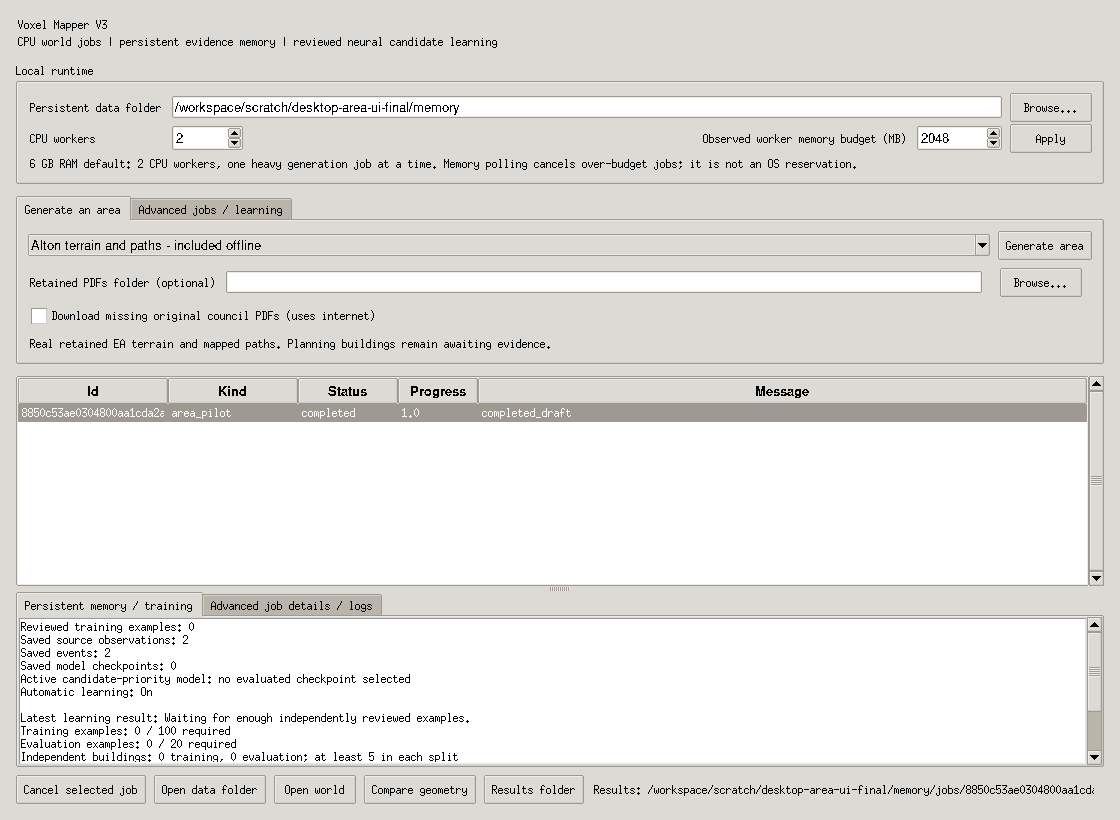
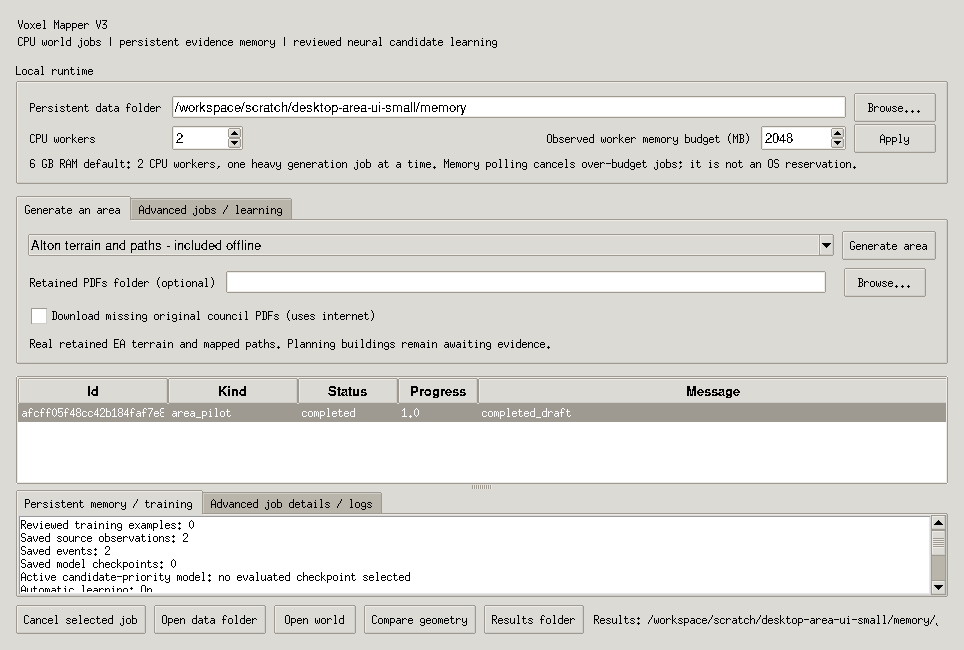
Keep primary desktop controls visible on small Windows screens

diff --git a/voxel_mapper/desktop_app.py b/voxel_mapper/desktop_app.py
@@ -30,6 +30,19 @@ def default_data_directory():
     return root/'VoxelMapperV3'
 
 
+def initial_window_geometry(root):
+    left=top=0;width=root.winfo_screenwidth();height=root.winfo_screenheight()
+    if os.name=='nt':
+        try:
+            import ctypes
+            from ctypes.wintypes import RECT
+            work=RECT()
+            if ctypes.windll.user32.SystemParametersInfoW(48,0,ctypes.byref(work),0):
+                left,top=work.left,work.top;width=work.right-work.left;height=work.bottom-work.top
+        except (AttributeError,OSError):pass
+    return f'{min(1120,max(900,width-60))}x{min(820,max(560,height-90))}{left+20:+d}{top+20:+d}'
+
+
 def learning_summary(snapshot):
     """Human-readable memory and evaluation state; hashes stay in job details."""
     memory=snapshot.get('memory',{});training=snapshot.get('training',{});config=snapshot.get('config',{})
@@ -198,7 +211,7 @@ class DesktopWindow:
         font_family='Segoe UI' if os.name=='nt' else 'DejaVu Sans'
         style.configure('.',font=(font_family,10))
         root.title('Voxel Mapper V3 - CPU desktop')
-        root.geometry(f'{min(1120,max(900,root.winfo_screenwidth()-60))}x{min(820,max(650,root.winfo_screenheight()-90))}');root.minsize(900,650)
+        root.geometry(initial_window_geometry(root));root.minsize(900,560)
         self.data_directory=tk.StringVar(value=str(Path(data_directory).expanduser().resolve()))
         self.workers=tk.IntVar(value=workers);self.memory_budget=tk.IntVar(value=memory_budget_mb)
         self.kind=tk.StringVar(value=JOB_KINDS[0][0]);self.config_path=tk.StringVar();self.automatic_learning=tk.BooleanVar(value=True)
@@ -252,12 +265,13 @@ class DesktopWindow:
         scroll=ttk.Scrollbar(top,orient='vertical',command=self.jobs.yview);self.jobs.configure(yscrollcommand=scroll.set)
         self.jobs.pack(side='left',fill='both',expand=True);scroll.pack(side='right',fill='y')
         self.jobs.bind('<<TreeviewSelect>>',lambda event:self._show_details())
-        actions=ttk.Frame(outer);actions.pack(fill='x',pady=(8,0))
-        ttk.Button(actions,text='Cancel selected job',command=self._cancel).pack(side='left')
+        actions=ttk.Frame(outer);actions.pack(side='bottom',before=panes,fill='x',pady=(8,0))
+        cancel_button=ttk.Button(actions,text='Cancel selected job',command=self._cancel);cancel_button.pack(side='left')
         ttk.Button(actions,text='Open data folder',command=self._open_directory).pack(side='left',padx=8)
-        ttk.Button(actions,text='Open world',command=lambda:self._open_job_output('park.mcworld')).pack(side='left')
-        ttk.Button(actions,text='Compare geometry',command=lambda:self._open_job_output('placement-comparison.svg')).pack(side='left',padx=8)
-        ttk.Button(actions,text='Results folder',command=self._open_job_folder).pack(side='left')
+        world_button=ttk.Button(actions,text='Open world',command=lambda:self._open_job_output('park.mcworld'));world_button.pack(side='left')
+        compare_button=ttk.Button(actions,text='Compare geometry',command=lambda:self._open_job_output('placement-comparison.svg'));compare_button.pack(side='left',padx=8)
+        results_button=ttk.Button(actions,text='Results folder',command=self._open_job_folder);results_button.pack(side='left')
+        self.primary_controls=(self.area_generate,cancel_button,world_button,compare_button,results_button)
         ttk.Label(actions,textvariable=self.status).pack(side='left',padx=8)
         bottom=ttk.Notebook(panes);panes.add(bottom,weight=2)
         memory_frame=ttk.Frame(bottom);detail_frame=ttk.Frame(bottom)
@@ -444,10 +458,18 @@ def launch(data_directory,workers=2,memory_budget_mb=2048,smoke_output=None):
         def finish():
             try:
                 root.update_idletasks()
-                from PIL import ImageGrab
-                box=(root.winfo_rootx(),root.winfo_rooty(),root.winfo_rootx()+root.winfo_width(),root.winfo_rooty()+root.winfo_height())
-                ImageGrab.grab(bbox=box).save(smoke_output/'desktop.png');result['screenshot']='desktop.png'
-            except Exception as error:result['screenshot_reason']=str(error)
+                for widget in window.primary_controls:
+                    x=widget.winfo_rootx()-root.winfo_rootx();y=widget.winfo_rooty()-root.winfo_rooty()
+                    if (not widget.winfo_ismapped() or x<0 or y<0 or x+widget.winfo_width()>root.winfo_width()
+                            or y+widget.winfo_height()>root.winfo_height()):
+                        raise ValueError('Primary control is hidden or clipped: '+str(widget.cget('text')))
+                result['primary_controls_visible']=True
+                try:
+                    from PIL import ImageGrab
+                    box=(root.winfo_rootx(),root.winfo_rooty(),root.winfo_rootx()+root.winfo_width(),root.winfo_rooty()+root.winfo_height())
+                    ImageGrab.grab(bbox=box).save(smoke_output/'desktop.png');result['screenshot']='desktop.png'
+                except Exception as error:result['screenshot_reason']=str(error)
+            except Exception as error:result.update(status='failed',error=str(error))
             finally:
                 (smoke_output/'ui-smoke.json').write_text(json.dumps(result,indent=2)+'\n',encoding='utf-8')
                 window.close()
